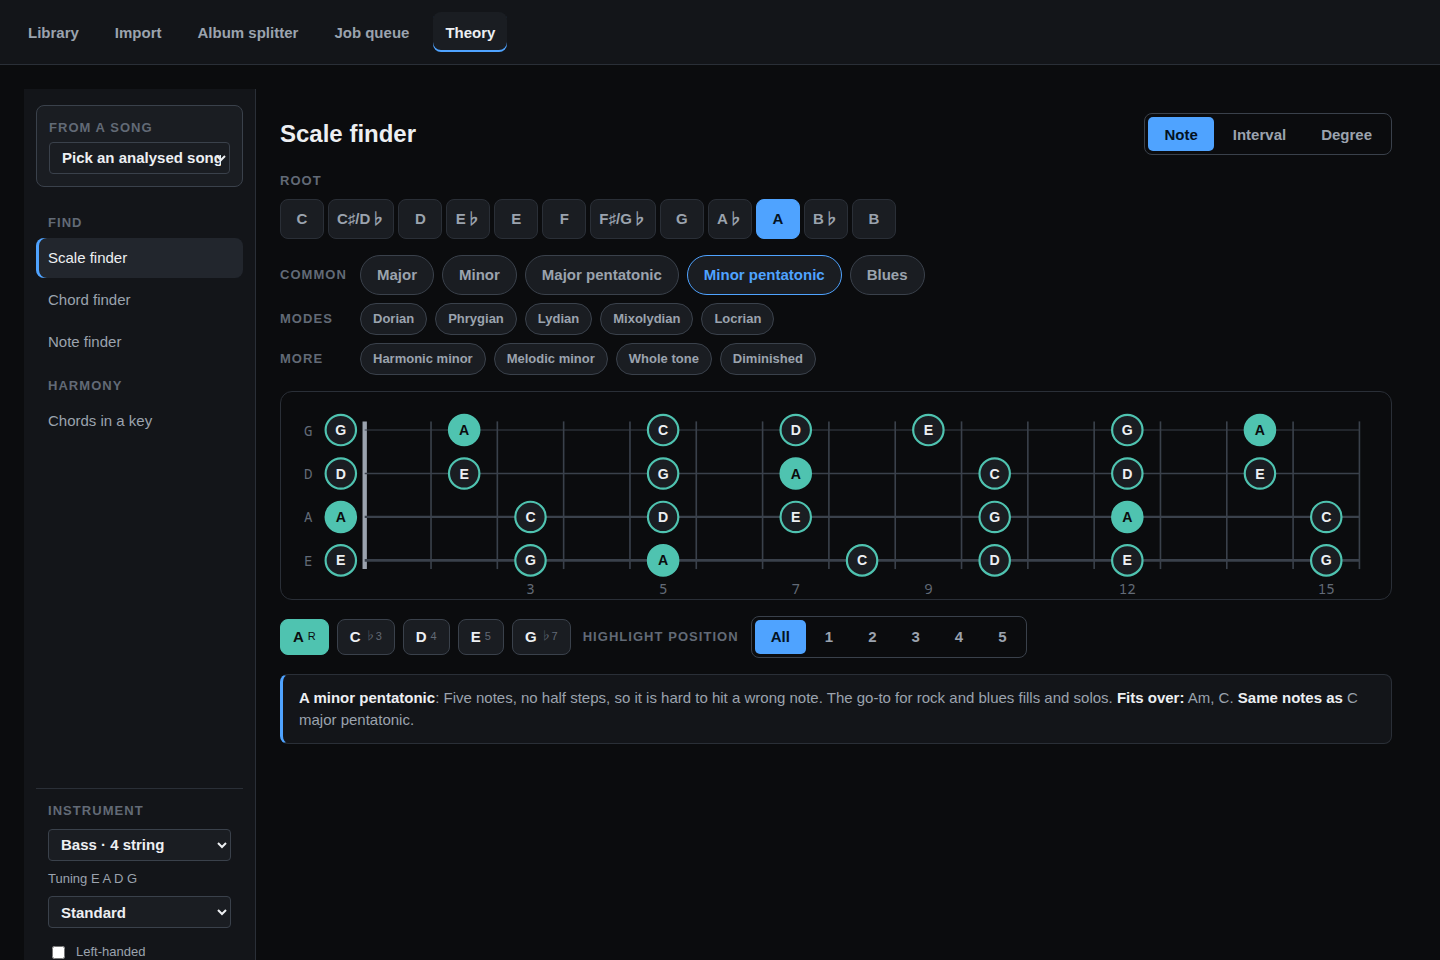
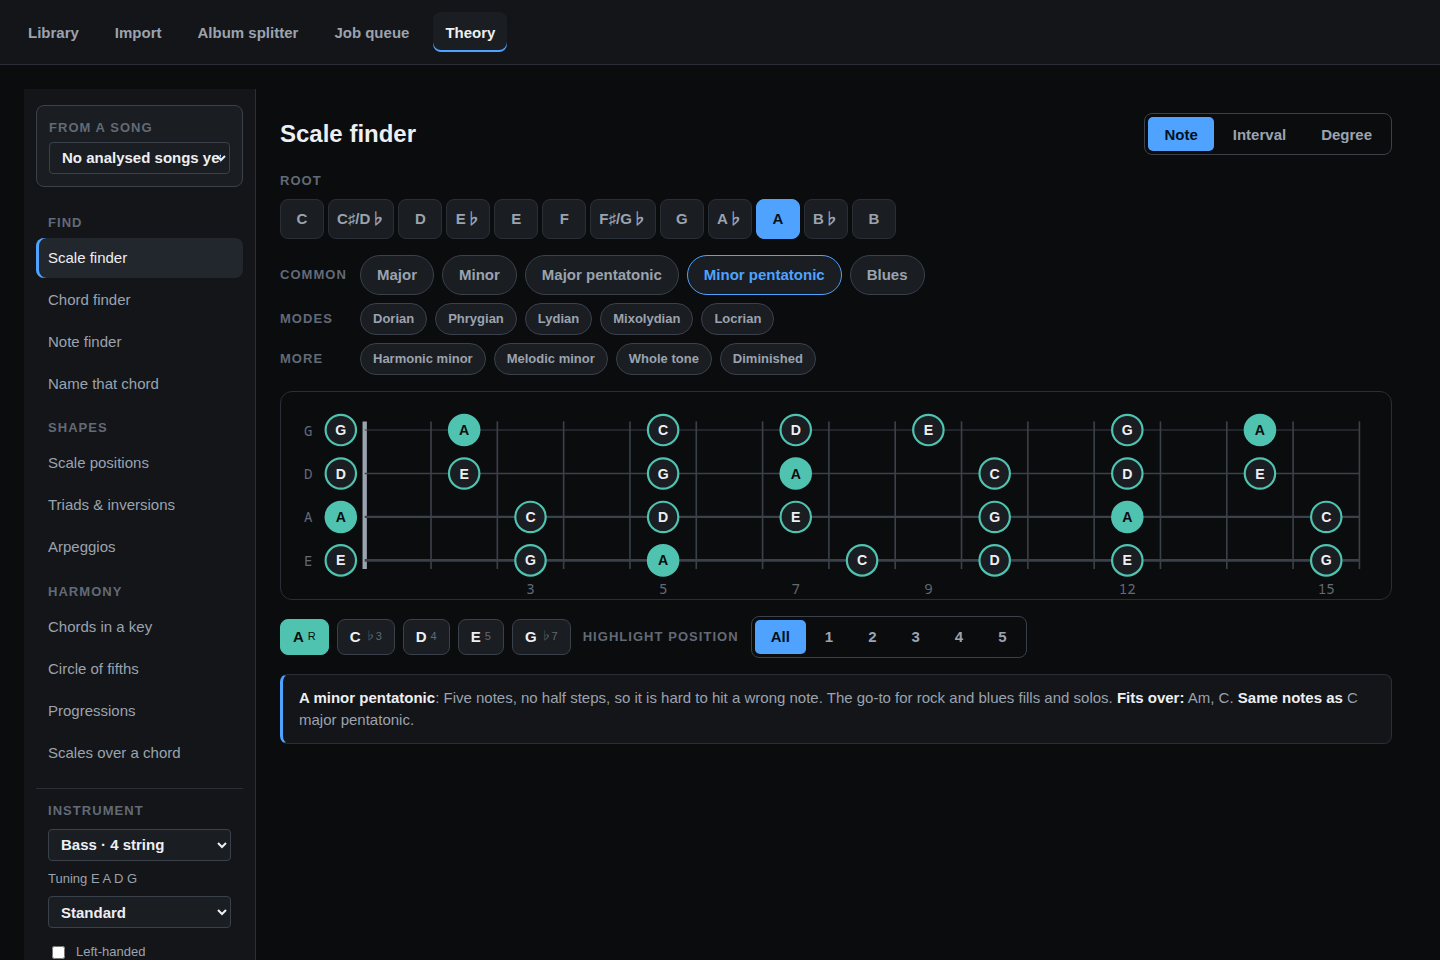
docs: README and screenshots for the Theory tab's shapes and harmony tools (D-19)
The capture script gets a 960px viewport and a ready selector for the
theory-shapes shot, so the rail's instrument footer is not clipped.

diff --git a/README.md b/README.md
@@ -19,9 +19,13 @@ instrument and play along.
   to eighth notes; optional chromatic, scale or fifth approach into the next bar), in the
   detected key or another candidate, and follow the pitch shift. Loop by bar numbers or
   from the chord ribbon; playback carries on when you switch back to the Song view
-- Theory tab: a scale finder, chord finder, note finder and chords-in-a-key view with a
-  circle of fifths, for 4- and 5-string bass and guitar in any tuning, left-handed too.
-  Load an analysed song's key and chords into it with one click
+- Theory tab for 4- and 5-string bass and 6-string guitar in any tuning, left-handed too:
+  scale, chord and note finders, name a chord from notes you tap, scale positions
+  (pentatonic boxes, 3-notes-per-string, CAGED, all positions), triads and inversions,
+  arpeggios, guitar voicings and bass arpeggio shapes, chords in a key, a circle of
+  fifths, 15 progressions in any key and scales that fit a chord. Pick an analysed song
+  and one of its key candidates to load its key and chords: they show as chips in the
+  chord tools, and Progressions charts the song with numerals, borrowed chords labelled
 - Album splitter: cut a full album rip into tagged MP3s. Silence detection proposes cuts;
   on a full-length waveform you play, zoom with the wheel or by dragging across a range,
   drag, add and delete cuts, or type exact start and end times to the millisecond, then
@@ -39,11 +43,12 @@ instrument and play along.
 ![Song view](docs/screenshots/song-view.png)
 ![Play along](docs/screenshots/play-along.png)
 ![Theory](docs/screenshots/theory.png)
+![Theory: scale positions](docs/screenshots/theory-shapes.png)
 ![Album splitter](docs/screenshots/album-splitter.png)
 ![Job queue](docs/screenshots/job-queue.png)
 
-All seven are captures of the running app, made with
-`node scripts/capture-screens.mjs library=/ import=/import song-view=/songs/<id> play-along=/songs/<id>/play "theory=/theory/scale-finder?root=A&scale=minor-pentatonic" album-splitter=/splitter/<id> job-queue=/jobs`
+All eight are captures of the running app, made with
+`node scripts/capture-screens.mjs library=/ import=/import song-view=/songs/<id> play-along=/songs/<id>/play "theory=/theory/scale-finder?root=A&scale=minor-pentatonic" "theory-shapes=/theory/scale-positions?root=A&scale=minor-pentatonic" album-splitter=/splitter/<id> job-queue=/jobs`
 (API and dev server running; it loads the pages, and for Play along it presses Space to play a few bars and pause again). The design system these follow —
 tokens, components and screen mockups — is in [design/ui](design/ui) (build it with
 `python3 design/ui/build.py`), with its rules in [design/ui-spec.md](design/ui-spec.md).
